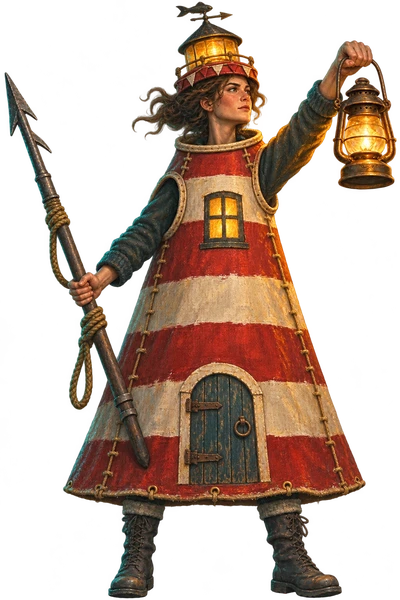
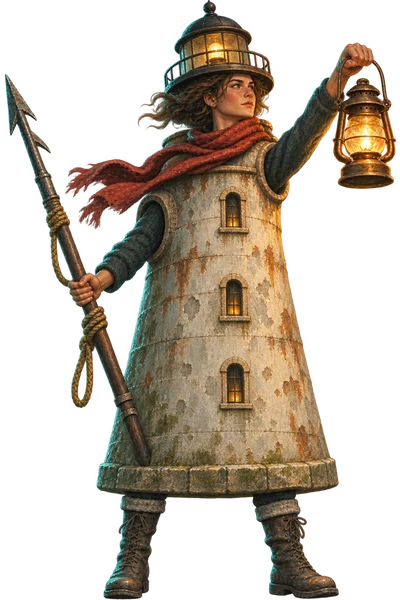
Notes: the lighthouse costume draft looks like the title-screen lighthouse
A weathered stone tower with lit windows and its lantern room as a hat,
without the door, in place of the red-and-white striped one.

diff --git a/GAME_NOTES.md b/GAME_NOTES.md
@@ -1593,7 +1593,8 @@ The user asked how more characters could be added, and wanted to judge the look 
   - Secret joke costumes:
     - bathing: an 1890s bathing dress, the at-home one;
     - beach: a bikini with her boots on;
-    - the lobster suit and the lighthouse;
+    - the lobster suit;
+    - the lighthouse: a weathered stone tower like the one on the title screen, with lit windows, no door, and its lantern room as a hat. It replaced a red-and-white striped one;
     - the shell bikini, the barbarian and the barrel.
   - Dropped by the user: ballerina and brass mech. Codex's image tool refused a skimpy fantasy-armour parody.
   - The secret costumes are whole-picture Codex edits, so her face and pose are close but not identical, and the light is warmer. To ship one, paste it back with a mask like the Rig pictures, or inpaint it locally.
